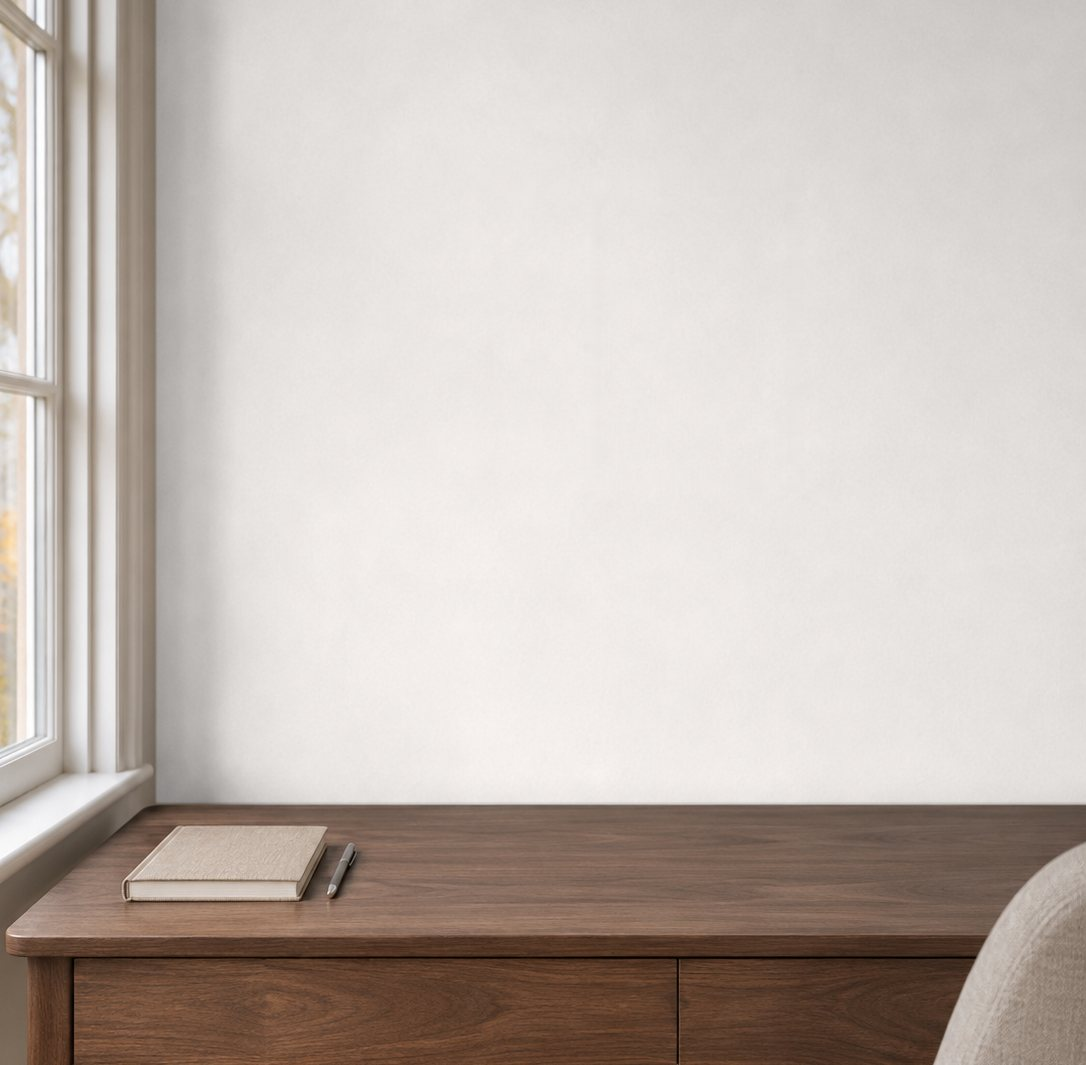
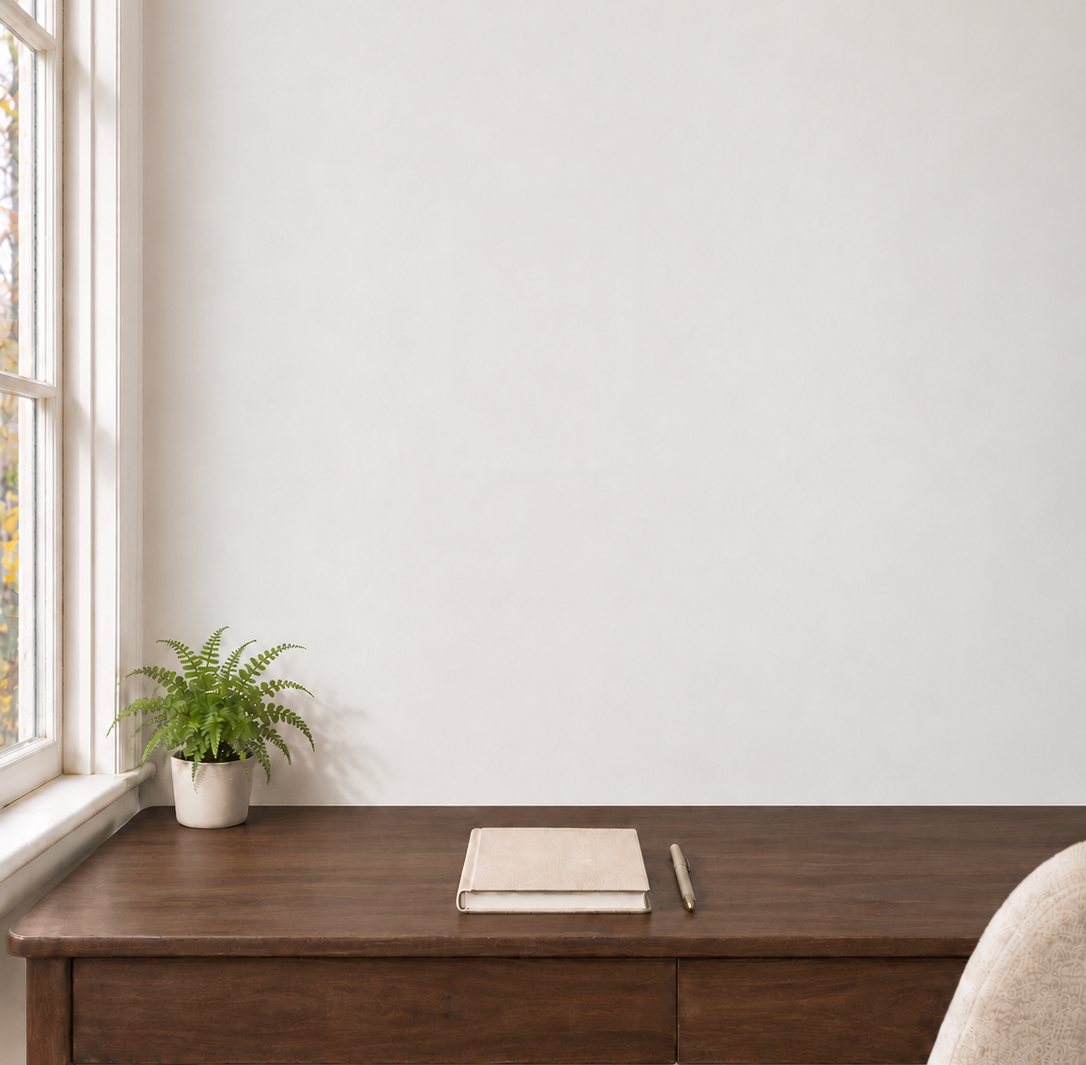
Wall view: desk picture with fern, recoloured and cropped
Claude-Session: https://claude.ai/code/session_01DXftZE4vQKfDt7Q36KHzd9

Changed region(s): [[0.0, 0.0, 0.8204, 1.0], [0.8508, 0.7746, 1.0, 1.0], [0.6989, 0.9915, 0.7293, 1.0]]

diff --git a/g-landscapes-trees-and-woodland.html b/g-landscapes-trees-and-woodland.html
@@ -33,7 +33,7 @@
 <img class="room" src="img/room.jpg" alt="" width="1037" height="1517" loading="lazy">
 <div class="hang bare" style="--tw:46;--th:54;--fw:0;--mx:0;--mt:0;--mb:0">
 <img src="img/t/054.jpg" alt="Bluebells in Spring shown at its real size on a wall" loading="lazy"></div>
-</div><p class="pane-note">Shown at its real size, 54 × 46 cm. Above a cabinet about 90 cm wide. The room is an illustration.</p></div><div class="views" role="group" aria-label="Choose a view of Bluebells in Spring"><button type="button" class="view-btn" data-view="painting" aria-pressed="true"><img src="img/t/054.jpg" alt="">The painting</button><button type="button" class="view-btn" data-view="wall" aria-pressed="false"><img src="img/room-thumb.jpg" alt="">On a wall</button></div></div><div class="ex-info"><h2>Bluebells in Spring</h2><dl><dt>Medium</dt><dd>Oil on canvas board</dd><dt>Size</dt><dd>54 × 46 cm</dd><dt>Year</dt><dd>2018</dd><dt>Price</dt><dd>Not for sale</dd><dt>Catalogue no.</dt><dd>54</dd></dl><p>A swathe of blue flowers across the woodland, where two birch trees stand out against the darker wood.</p><p class="ex-links"><button type="button" class="share-btn" data-url="https://joanmullinsart.co.uk/w-054.html" data-title="Bluebells in Spring, by Joan Mullins"><svg aria-hidden="true" viewBox="0 0 24 24" width="16" height="16" fill="none" stroke="currentColor" stroke-width="1.8" stroke-linecap="round" stroke-linejoin="round"><path d="M4 12v7a1 1 0 0 0 1 1h14a1 1 0 0 0 1-1v-7"/><path d="M12 3v12"/><path d="M7 8l5-5 5 5"/></svg><span>Share</span></button></p></div></article><article class="ex" data-status="available" id="w-060"><div class="ex-pic viewer"><div class="pane" data-pane="painting"><a href="img/w/060.jpg" data-zoom title="See it larger"><img src="img/w/060.jpg" alt="Oil painting of bright light shining through dark tree trunks onto snow." loading="lazy" width="1100" height="823"></a></div><div class="pane" data-pane="wall"><div class="wall" style="--rw:1086;--rh:1065;--s:14.1;--cx:694;--by:542">
+</div><p class="pane-note">Shown at its real size, 54 × 46 cm. Above a cabinet about 90 cm wide. The room is an illustration.</p></div><div class="views" role="group" aria-label="Choose a view of Bluebells in Spring"><button type="button" class="view-btn" data-view="painting" aria-pressed="true"><img src="img/t/054.jpg" alt="">The painting</button><button type="button" class="view-btn" data-view="wall" aria-pressed="false"><img src="img/room-thumb.jpg" alt="">On a wall</button></div></div><div class="ex-info"><h2>Bluebells in Spring</h2><dl><dt>Medium</dt><dd>Oil on canvas board</dd><dt>Size</dt><dd>54 × 46 cm</dd><dt>Year</dt><dd>2018</dd><dt>Price</dt><dd>Not for sale</dd><dt>Catalogue no.</dt><dd>54</dd></dl><p>A swathe of blue flowers across the woodland, where two birch trees stand out against the darker wood.</p><p class="ex-links"><button type="button" class="share-btn" data-url="https://joanmullinsart.co.uk/w-054.html" data-title="Bluebells in Spring, by Joan Mullins"><svg aria-hidden="true" viewBox="0 0 24 24" width="16" height="16" fill="none" stroke="currentColor" stroke-width="1.8" stroke-linecap="round" stroke-linejoin="round"><path d="M4 12v7a1 1 0 0 0 1 1h14a1 1 0 0 0 1-1v-7"/><path d="M12 3v12"/><path d="M7 8l5-5 5 5"/></svg><span>Share</span></button></p></div></article><article class="ex" data-status="available" id="w-060"><div class="ex-pic viewer"><div class="pane" data-pane="painting"><a href="img/w/060.jpg" data-zoom title="See it larger"><img src="img/w/060.jpg" alt="Oil painting of bright light shining through dark tree trunks onto snow." loading="lazy" width="1100" height="823"></a></div><div class="pane" data-pane="wall"><div class="wall" style="--rw:1086;--rh:1065;--s:13.0;--cx:542;--by:521">
 <img class="room" src="img/room-desk.jpg" alt="" width="1086" height="1065" loading="lazy">
 <div class="hang bare" style="--tw:20;--th:15;--fw:0;--mx:0;--mt:0;--mb:0">
 <img src="img/t/060.jpg" alt="Light in the Snow shown at its real size on a wall" loading="lazy"></div>
@@ -45,7 +45,7 @@
 <img class="room" src="img/room.jpg" alt="" width="1037" height="1517" loading="lazy">
 <div class="hang bare" style="--tw:35;--th:48;--fw:0;--mx:0;--mt:0;--mb:0">
 <img src="img/t/090.jpg" alt="The Yellow Bush shown at its real size on a wall" loading="lazy"></div>
-</div><p class="pane-note">Shown at its real size, 48 × 35 cm. Above a cabinet about 90 cm wide. The room is an illustration.</p></div><div class="views" role="group" aria-label="Choose a view of The Yellow Bush"><button type="button" class="view-btn" data-view="painting" aria-pressed="true"><img src="img/t/090.jpg" alt="">The painting</button><button type="button" class="view-btn" data-view="wall" aria-pressed="false"><img src="img/room-thumb.jpg" alt="">On a wall</button></div></div><div class="ex-info"><h2>The Yellow Bush</h2><dl><dt>Medium</dt><dd>Oil on canvas board</dd><dt>Size</dt><dd>48 × 35 cm</dd><dt>Year</dt><dd>2024</dd><dt>Inspired by</dt><dd>A wood in Cheshire</dd><dt>Price</dt><dd>Not for sale</dd><dt>Catalogue no.</dt><dd>90</dd></dl><p>This painting is based on trees seen on a walk in the woods in Cheshire, where one bush in particular stood out.</p><p class="ex-links"><button type="button" class="share-btn" data-url="https://joanmullinsart.co.uk/w-090.html" data-title="The Yellow Bush, by Joan Mullins"><svg aria-hidden="true" viewBox="0 0 24 24" width="16" height="16" fill="none" stroke="currentColor" stroke-width="1.8" stroke-linecap="round" stroke-linejoin="round"><path d="M4 12v7a1 1 0 0 0 1 1h14a1 1 0 0 0 1-1v-7"/><path d="M12 3v12"/><path d="M7 8l5-5 5 5"/></svg><span>Share</span></button></p></div></article><article class="ex" data-status="available" id="w-105"><div class="ex-pic viewer"><div class="pane" data-pane="painting"><a href="img/w/105.jpg" data-zoom title="See it larger"><img src="img/w/105.jpg" alt="Oil painting of a sunlit path between overgrown green banks and trees near West Kirby, on the Wirral." loading="lazy" width="726" height="1100"></a></div><div class="pane" data-pane="wall"><div class="wall" style="--rw:1086;--rh:1065;--s:14.1;--cx:694;--by:542">
+</div><p class="pane-note">Shown at its real size, 48 × 35 cm. Above a cabinet about 90 cm wide. The room is an illustration.</p></div><div class="views" role="group" aria-label="Choose a view of The Yellow Bush"><button type="button" class="view-btn" data-view="painting" aria-pressed="true"><img src="img/t/090.jpg" alt="">The painting</button><button type="button" class="view-btn" data-view="wall" aria-pressed="false"><img src="img/room-thumb.jpg" alt="">On a wall</button></div></div><div class="ex-info"><h2>The Yellow Bush</h2><dl><dt>Medium</dt><dd>Oil on canvas board</dd><dt>Size</dt><dd>48 × 35 cm</dd><dt>Year</dt><dd>2024</dd><dt>Inspired by</dt><dd>A wood in Cheshire</dd><dt>Price</dt><dd>Not for sale</dd><dt>Catalogue no.</dt><dd>90</dd></dl><p>This painting is based on trees seen on a walk in the woods in Cheshire, where one bush in particular stood out.</p><p class="ex-links"><button type="button" class="share-btn" data-url="https://joanmullinsart.co.uk/w-090.html" data-title="The Yellow Bush, by Joan Mullins"><svg aria-hidden="true" viewBox="0 0 24 24" width="16" height="16" fill="none" stroke="currentColor" stroke-width="1.8" stroke-linecap="round" stroke-linejoin="round"><path d="M4 12v7a1 1 0 0 0 1 1h14a1 1 0 0 0 1-1v-7"/><path d="M12 3v12"/><path d="M7 8l5-5 5 5"/></svg><span>Share</span></button></p></div></article><article class="ex" data-status="available" id="w-105"><div class="ex-pic viewer"><div class="pane" data-pane="painting"><a href="img/w/105.jpg" data-zoom title="See it larger"><img src="img/w/105.jpg" alt="Oil painting of a sunlit path between overgrown green banks and trees near West Kirby, on the Wirral." loading="lazy" width="726" height="1100"></a></div><div class="pane" data-pane="wall"><div class="wall" style="--rw:1086;--rh:1065;--s:13.0;--cx:542;--by:521">
 <img class="room" src="img/room-desk.jpg" alt="" width="1086" height="1065" loading="lazy">
 <div class="hang bare" style="--tw:20;--th:29;--fw:0;--mx:0;--mt:0;--mb:0">
 <img src="img/t/105.jpg" alt="A Path in the Wirral shown at its real size on a wall" loading="lazy"></div>
@@ -69,7 +69,7 @@
 <img class="room" src="img/room-small.jpg" alt="" width="904" height="1120" loading="lazy">
 <div class="hang bare" style="--tw:45;--th:33;--fw:0;--mx:0;--mt:0;--mb:0">
 <img src="img/t/142.jpg" alt="Landscape with Red Roofs shown at its real size on a wall" loading="lazy"></div>
-</div><p class="pane-note">Shown at its real size, 33 × 45 cm. Above a side table about 65 cm across. The room is an illustration.</p></div><div class="views" role="group" aria-label="Choose a view of Landscape with Red Roofs"><button type="button" class="view-btn" data-view="painting" aria-pressed="true"><img src="img/t/142.jpg" alt="">The painting</button><button type="button" class="view-btn" data-view="wall" aria-pressed="false"><img src="img/room-small-thumb.jpg" alt="">On a wall</button></div></div><div class="ex-info"><h2>Landscape with Red Roofs</h2><dl><dt>Medium</dt><dd>Oil on canvas board</dd><dt>Size</dt><dd>33 × 45 cm</dd><dt>Year</dt><dd>2026</dd><dt>Price</dt><dd>£300</dd><dt>Catalogue no.</dt><dd>142</dd></dl><p>A summer landscape, with a path passing between trees inviting the viewer to look out towards the houses in the distance.</p><p class="ex-links"><a href="enquire.html#w-142">Ask about this painting</a> · <button type="button" class="share-btn" data-url="https://joanmullinsart.co.uk/w-142.html" data-title="Landscape with Red Roofs, by Joan Mullins"><svg aria-hidden="true" viewBox="0 0 24 24" width="16" height="16" fill="none" stroke="currentColor" stroke-width="1.8" stroke-linecap="round" stroke-linejoin="round"><path d="M4 12v7a1 1 0 0 0 1 1h14a1 1 0 0 0 1-1v-7"/><path d="M12 3v12"/><path d="M7 8l5-5 5 5"/></svg><span>Share</span></button></p></div></article><article class="ex" data-status="available" id="w-148"><div class="ex-pic viewer"><div class="pane" data-pane="painting"><a href="img/w/148.jpg" data-zoom title="See it larger"><img src="img/w/148.jpg" alt="Oil painting of autumn woodland with tall trees in orange, yellow and green on a calm day." loading="lazy" width="1099" height="777"></a></div><div class="pane" data-pane="wall"><div class="wall" style="--rw:1086;--rh:1065;--s:14.1;--cx:694;--by:542">
+</div><p class="pane-note">Shown at its real size, 33 × 45 cm. Above a side table about 65 cm across. The room is an illustration.</p></div><div class="views" role="group" aria-label="Choose a view of Landscape with Red Roofs"><button type="button" class="view-btn" data-view="painting" aria-pressed="true"><img src="img/t/142.jpg" alt="">The painting</button><button type="button" class="view-btn" data-view="wall" aria-pressed="false"><img src="img/room-small-thumb.jpg" alt="">On a wall</button></div></div><div class="ex-info"><h2>Landscape with Red Roofs</h2><dl><dt>Medium</dt><dd>Oil on canvas board</dd><dt>Size</dt><dd>33 × 45 cm</dd><dt>Year</dt><dd>2026</dd><dt>Price</dt><dd>£300</dd><dt>Catalogue no.</dt><dd>142</dd></dl><p>A summer landscape, with a path passing between trees inviting the viewer to look out towards the houses in the distance.</p><p class="ex-links"><a href="enquire.html#w-142">Ask about this painting</a> · <button type="button" class="share-btn" data-url="https://joanmullinsart.co.uk/w-142.html" data-title="Landscape with Red Roofs, by Joan Mullins"><svg aria-hidden="true" viewBox="0 0 24 24" width="16" height="16" fill="none" stroke="currentColor" stroke-width="1.8" stroke-linecap="round" stroke-linejoin="round"><path d="M4 12v7a1 1 0 0 0 1 1h14a1 1 0 0 0 1-1v-7"/><path d="M12 3v12"/><path d="M7 8l5-5 5 5"/></svg><span>Share</span></button></p></div></article><article class="ex" data-status="available" id="w-148"><div class="ex-pic viewer"><div class="pane" data-pane="painting"><a href="img/w/148.jpg" data-zoom title="See it larger"><img src="img/w/148.jpg" alt="Oil painting of autumn woodland with tall trees in orange, yellow and green on a calm day." loading="lazy" width="1099" height="777"></a></div><div class="pane" data-pane="wall"><div class="wall" style="--rw:1086;--rh:1065;--s:13.0;--cx:542;--by:521">
 <img class="room" src="img/room-desk.jpg" alt="" width="1086" height="1065" loading="lazy">
 <div class="hang bare" style="--tw:34;--th:25;--fw:0;--mx:0;--mt:0;--mb:0">
 <img src="img/t/148.jpg" alt="Autumn Woods shown at its real size on a wall" loading="lazy"></div>

diff --git a/sold.html b/sold.html
@@ -49,7 +49,7 @@
 <img class="room" src="img/room-small.jpg" alt="" width="904" height="1120" loading="lazy">
 <div class="hang bare" style="--tw:35;--th:45;--fw:0;--mx:0;--mt:0;--mb:0">
 <img src="img/t/114.jpg" alt="Landscape with Birch Trees shown at its real size on a wall" loading="lazy"></div>
-</div><p class="pane-note">Shown at its real size, 45 × 35 cm. Above a side table about 65 cm across. The room is an illustration.</p></div><div class="views" role="group" aria-label="Choose a view of Landscape with Birch Trees"><button type="button" class="view-btn" data-view="painting" aria-pressed="true"><img src="img/t/114.jpg" alt="">The painting</button><button type="button" class="view-btn" data-view="wall" aria-pressed="false"><img src="img/room-small-thumb.jpg" alt="">On a wall</button></div></div><div class="ex-info"><h2>Landscape with Birch Trees</h2><dl><dt>Medium</dt><dd>Oil on canvas board</dd><dt>Size</dt><dd>45 × 35 cm</dd><dt>Year</dt><dd>2008</dd><dt>Inspired by</dt><dd>Hampshire</dd><dt>Price</dt><dd>Sold</dd><dt>Catalogue no.</dt><dd>114</dd></dl><p>Landscape with birch trees in Hampshire, England. Again, the interest here is the white of the tree bark against the green background of trees and fields.</p><p class="ex-links"><button type="button" class="share-btn" data-url="https://joanmullinsart.co.uk/w-114.html" data-title="Landscape with Birch Trees, by Joan Mullins"><svg aria-hidden="true" viewBox="0 0 24 24" width="16" height="16" fill="none" stroke="currentColor" stroke-width="1.8" stroke-linecap="round" stroke-linejoin="round"><path d="M4 12v7a1 1 0 0 0 1 1h14a1 1 0 0 0 1-1v-7"/><path d="M12 3v12"/><path d="M7 8l5-5 5 5"/></svg><span>Share</span></button></p></div></article><article class="ex" data-status="sold" id="w-124"><div class="ex-pic viewer"><div class="pane" data-pane="painting"><a href="img/w/124.jpg" data-zoom title="See it larger"><img src="img/w/124.jpg" alt="Two Dogs in the Pea Fields" loading="lazy" width="970" height="1100"></a></div></div><div class="ex-info"><h2>Two Dogs in the Pea Fields</h2><dl><dt>Medium</dt><dd>Oil on canvas board</dd><dt>Price</dt><dd>Sold</dd><dt>Catalogue no.</dt><dd>124</dd></dl><p class="ex-links"><button type="button" class="share-btn" data-url="https://joanmullinsart.co.uk/w-124.html" data-title="Two Dogs in the Pea Fields, by Joan Mullins"><svg aria-hidden="true" viewBox="0 0 24 24" width="16" height="16" fill="none" stroke="currentColor" stroke-width="1.8" stroke-linecap="round" stroke-linejoin="round"><path d="M4 12v7a1 1 0 0 0 1 1h14a1 1 0 0 0 1-1v-7"/><path d="M12 3v12"/><path d="M7 8l5-5 5 5"/></svg><span>Share</span></button></p></div></article><article class="ex" data-status="sold" id="w-139"><div class="ex-pic viewer"><div class="pane" data-pane="painting"><a href="img/w/139.jpg" data-zoom title="See it larger"><img src="img/w/139.jpg" alt="Birch Trees in Spring with Dandelions" loading="lazy" width="844" height="591"></a></div><div class="pane" data-pane="wall"><div class="wall" style="--rw:1086;--rh:1065;--s:14.1;--cx:694;--by:542">
+</div><p class="pane-note">Shown at its real size, 45 × 35 cm. Above a side table about 65 cm across. The room is an illustration.</p></div><div class="views" role="group" aria-label="Choose a view of Landscape with Birch Trees"><button type="button" class="view-btn" data-view="painting" aria-pressed="true"><img src="img/t/114.jpg" alt="">The painting</button><button type="button" class="view-btn" data-view="wall" aria-pressed="false"><img src="img/room-small-thumb.jpg" alt="">On a wall</button></div></div><div class="ex-info"><h2>Landscape with Birch Trees</h2><dl><dt>Medium</dt><dd>Oil on canvas board</dd><dt>Size</dt><dd>45 × 35 cm</dd><dt>Year</dt><dd>2008</dd><dt>Inspired by</dt><dd>Hampshire</dd><dt>Price</dt><dd>Sold</dd><dt>Catalogue no.</dt><dd>114</dd></dl><p>Landscape with birch trees in Hampshire, England. Again, the interest here is the white of the tree bark against the green background of trees and fields.</p><p class="ex-links"><button type="button" class="share-btn" data-url="https://joanmullinsart.co.uk/w-114.html" data-title="Landscape with Birch Trees, by Joan Mullins"><svg aria-hidden="true" viewBox="0 0 24 24" width="16" height="16" fill="none" stroke="currentColor" stroke-width="1.8" stroke-linecap="round" stroke-linejoin="round"><path d="M4 12v7a1 1 0 0 0 1 1h14a1 1 0 0 0 1-1v-7"/><path d="M12 3v12"/><path d="M7 8l5-5 5 5"/></svg><span>Share</span></button></p></div></article><article class="ex" data-status="sold" id="w-124"><div class="ex-pic viewer"><div class="pane" data-pane="painting"><a href="img/w/124.jpg" data-zoom title="See it larger"><img src="img/w/124.jpg" alt="Two Dogs in the Pea Fields" loading="lazy" width="970" height="1100"></a></div></div><div class="ex-info"><h2>Two Dogs in the Pea Fields</h2><dl><dt>Medium</dt><dd>Oil on canvas board</dd><dt>Price</dt><dd>Sold</dd><dt>Catalogue no.</dt><dd>124</dd></dl><p class="ex-links"><button type="button" class="share-btn" data-url="https://joanmullinsart.co.uk/w-124.html" data-title="Two Dogs in the Pea Fields, by Joan Mullins"><svg aria-hidden="true" viewBox="0 0 24 24" width="16" height="16" fill="none" stroke="currentColor" stroke-width="1.8" stroke-linecap="round" stroke-linejoin="round"><path d="M4 12v7a1 1 0 0 0 1 1h14a1 1 0 0 0 1-1v-7"/><path d="M12 3v12"/><path d="M7 8l5-5 5 5"/></svg><span>Share</span></button></p></div></article><article class="ex" data-status="sold" id="w-139"><div class="ex-pic viewer"><div class="pane" data-pane="painting"><a href="img/w/139.jpg" data-zoom title="See it larger"><img src="img/w/139.jpg" alt="Birch Trees in Spring with Dandelions" loading="lazy" width="844" height="591"></a></div><div class="pane" data-pane="wall"><div class="wall" style="--rw:1086;--rh:1065;--s:13.0;--cx:542;--by:521">
 <img class="room" src="img/room-desk.jpg" alt="" width="1086" height="1065" loading="lazy">
 <div class="hang bare" style="--tw:30;--th:20;--fw:0;--mx:0;--mt:0;--mb:0">
 <img src="img/t/139.jpg" alt="Birch Trees in Spring with Dandelions shown at its real size on a wall" loading="lazy"></div>

diff --git a/g-landscapes-countryside.html b/g-landscapes-countryside.html
@@ -33,7 +33,7 @@
 <img class="room" src="img/room.jpg" alt="" width="1037" height="1517" loading="lazy">
 <div class="hang mounted" style="--tw:50.4;--th:42.4;--fw:2.2;--mx:7;--mt:7;--mb:8">
 <img src="img/t/008.jpg" alt="Balancing Rocks Zimbabwe shown at its real size on a wall" loading="lazy"></div>
-</div><p class="pane-note">Shown in a typical mount and frame, which are not included. The painting itself is 23 × 32 cm. Above a cabinet about 90 cm wide. The room is an illustration.</p></div><div class="views" role="group" aria-label="Choose a view of Balancing Rocks Zimbabwe"><button type="button" class="view-btn" data-view="painting" aria-pressed="true"><img src="img/t/008.jpg" alt="">The painting</button><button type="button" class="view-btn" data-view="wall" aria-pressed="false"><img src="img/room-thumb.jpg" alt="">On a wall</button></div></div><div class="ex-info"><h2>Balancing Rocks Zimbabwe</h2><dl><dt>Medium</dt><dd>Ink and watercolour on paper</dd><dt>Size</dt><dd>23 × 32 cm</dd><dt>Year</dt><dd>1985</dd><dt>Inspired by</dt><dd>The south of Zimbabwe</dd><dt>Price</dt><dd>£175</dd><dt>Catalogue no.</dt><dd>8</dd></dl><p>These very famous balancing rocks in the south of Zimbabwe are typical of the granite rock formations in the south of the country, where I grew up. It was done in a nostalgic mood many years after leaving the country.</p><p class="ex-links"><a href="enquire.html#w-008">Ask about this painting</a> · <button type="button" class="share-btn" data-url="https://joanmullinsart.co.uk/w-008.html" data-title="Balancing Rocks Zimbabwe, by Joan Mullins"><svg aria-hidden="true" viewBox="0 0 24 24" width="16" height="16" fill="none" stroke="currentColor" stroke-width="1.8" stroke-linecap="round" stroke-linejoin="round"><path d="M4 12v7a1 1 0 0 0 1 1h14a1 1 0 0 0 1-1v-7"/><path d="M12 3v12"/><path d="M7 8l5-5 5 5"/></svg><span>Share</span></button></p></div></article><article class="ex" data-status="available" id="w-031"><div class="ex-pic viewer"><div class="pane" data-pane="painting"><a href="img/w/031.jpg" data-zoom title="See it larger"><img src="img/w/031.jpg" alt="Oil painting of a small stone shed beside a snow-covered track in Co Mayo, Ireland, with fir trees behind." loading="lazy" width="1100" height="886"></a></div><div class="pane" data-pane="wall"><div class="wall" style="--rw:1086;--rh:1065;--s:14.1;--cx:694;--by:542">
+</div><p class="pane-note">Shown in a typical mount and frame, which are not included. The painting itself is 23 × 32 cm. Above a cabinet about 90 cm wide. The room is an illustration.</p></div><div class="views" role="group" aria-label="Choose a view of Balancing Rocks Zimbabwe"><button type="button" class="view-btn" data-view="painting" aria-pressed="true"><img src="img/t/008.jpg" alt="">The painting</button><button type="button" class="view-btn" data-view="wall" aria-pressed="false"><img src="img/room-thumb.jpg" alt="">On a wall</button></div></div><div class="ex-info"><h2>Balancing Rocks Zimbabwe</h2><dl><dt>Medium</dt><dd>Ink and watercolour on paper</dd><dt>Size</dt><dd>23 × 32 cm</dd><dt>Year</dt><dd>1985</dd><dt>Inspired by</dt><dd>The south of Zimbabwe</dd><dt>Price</dt><dd>£175</dd><dt>Catalogue no.</dt><dd>8</dd></dl><p>These very famous balancing rocks in the south of Zimbabwe are typical of the granite rock formations in the south of the country, where I grew up. It was done in a nostalgic mood many years after leaving the country.</p><p class="ex-links"><a href="enquire.html#w-008">Ask about this painting</a> · <button type="button" class="share-btn" data-url="https://joanmullinsart.co.uk/w-008.html" data-title="Balancing Rocks Zimbabwe, by Joan Mullins"><svg aria-hidden="true" viewBox="0 0 24 24" width="16" height="16" fill="none" stroke="currentColor" stroke-width="1.8" stroke-linecap="round" stroke-linejoin="round"><path d="M4 12v7a1 1 0 0 0 1 1h14a1 1 0 0 0 1-1v-7"/><path d="M12 3v12"/><path d="M7 8l5-5 5 5"/></svg><span>Share</span></button></p></div></article><article class="ex" data-status="available" id="w-031"><div class="ex-pic viewer"><div class="pane" data-pane="painting"><a href="img/w/031.jpg" data-zoom title="See it larger"><img src="img/w/031.jpg" alt="Oil painting of a small stone shed beside a snow-covered track in Co Mayo, Ireland, with fir trees behind." loading="lazy" width="1100" height="886"></a></div><div class="pane" data-pane="wall"><div class="wall" style="--rw:1086;--rh:1065;--s:13.0;--cx:542;--by:521">
 <img class="room" src="img/room-desk.jpg" alt="" width="1086" height="1065" loading="lazy">
 <div class="hang bare" style="--tw:35;--th:32;--fw:0;--mx:0;--mt:0;--mb:0">
 <img src="img/t/031.jpg" alt="Abandoned Shed shown at its real size on a wall" loading="lazy"></div>

diff --git a/new.html b/new.html
@@ -41,7 +41,7 @@
 <img class="room" src="img/room-small.jpg" alt="" width="904" height="1120" loading="lazy">
 <div class="hang bare" style="--tw:45;--th:28;--fw:0;--mx:0;--mt:0;--mb:0">
 <img src="img/t/143.jpg" alt="Thurstaston Beach at Sunset shown at its real size on a wall" loading="lazy"></div>
-</div><p class="pane-note">Shown at its real size, 28 × 45 cm. Above a side table about 65 cm across. The room is an illustration.</p></div><div class="views" role="group" aria-label="Choose a view of Thurstaston Beach at Sunset"><button type="button" class="view-btn" data-view="painting" aria-pressed="true"><img src="img/t/143.jpg" alt="">The painting</button><button type="button" class="view-btn" data-view="wall" aria-pressed="false"><img src="img/room-small-thumb.jpg" alt="">On a wall</button></div></div><div class="ex-info"><h2>Thurstaston Beach at Sunset</h2><dl><dt>Medium</dt><dd>Oil on canvas board</dd><dt>Size</dt><dd>28 × 45 cm</dd><dt>Year</dt><dd>2026</dd><dt>Inspired by</dt><dd>Thurstaston beach, Wirral</dd><dt>Price</dt><dd>£200</dd><dt>Catalogue no.</dt><dd>143</dd></dl><p>Thurstaston beach at sunset, with a small stream meandering across the pebbles and sand towards the sea.</p><p class="ex-links"><a href="enquire.html#w-143">Ask about this painting</a> · <button type="button" class="share-btn" data-url="https://joanmullinsart.co.uk/w-143.html" data-title="Thurstaston Beach at Sunset, by Joan Mullins"><svg aria-hidden="true" viewBox="0 0 24 24" width="16" height="16" fill="none" stroke="currentColor" stroke-width="1.8" stroke-linecap="round" stroke-linejoin="round"><path d="M4 12v7a1 1 0 0 0 1 1h14a1 1 0 0 0 1-1v-7"/><path d="M12 3v12"/><path d="M7 8l5-5 5 5"/></svg><span>Share</span></button></p></div></article><article class="ex" data-status="available" id="w-148"><div class="ex-pic viewer"><div class="pane" data-pane="painting"><a href="img/w/148.jpg" data-zoom title="See it larger"><img src="img/w/148.jpg" alt="Oil painting of autumn woodland with tall trees in orange, yellow and green on a calm day." loading="lazy" width="1099" height="777"></a></div><div class="pane" data-pane="wall"><div class="wall" style="--rw:1086;--rh:1065;--s:14.1;--cx:694;--by:542">
+</div><p class="pane-note">Shown at its real size, 28 × 45 cm. Above a side table about 65 cm across. The room is an illustration.</p></div><div class="views" role="group" aria-label="Choose a view of Thurstaston Beach at Sunset"><button type="button" class="view-btn" data-view="painting" aria-pressed="true"><img src="img/t/143.jpg" alt="">The painting</button><button type="button" class="view-btn" data-view="wall" aria-pressed="false"><img src="img/room-small-thumb.jpg" alt="">On a wall</button></div></div><div class="ex-info"><h2>Thurstaston Beach at Sunset</h2><dl><dt>Medium</dt><dd>Oil on canvas board</dd><dt>Size</dt><dd>28 × 45 cm</dd><dt>Year</dt><dd>2026</dd><dt>Inspired by</dt><dd>Thurstaston beach, Wirral</dd><dt>Price</dt><dd>£200</dd><dt>Catalogue no.</dt><dd>143</dd></dl><p>Thurstaston beach at sunset, with a small stream meandering across the pebbles and sand towards the sea.</p><p class="ex-links"><a href="enquire.html#w-143">Ask about this painting</a> · <button type="button" class="share-btn" data-url="https://joanmullinsart.co.uk/w-143.html" data-title="Thurstaston Beach at Sunset, by Joan Mullins"><svg aria-hidden="true" viewBox="0 0 24 24" width="16" height="16" fill="none" stroke="currentColor" stroke-width="1.8" stroke-linecap="round" stroke-linejoin="round"><path d="M4 12v7a1 1 0 0 0 1 1h14a1 1 0 0 0 1-1v-7"/><path d="M12 3v12"/><path d="M7 8l5-5 5 5"/></svg><span>Share</span></button></p></div></article><article class="ex" data-status="available" id="w-148"><div class="ex-pic viewer"><div class="pane" data-pane="painting"><a href="img/w/148.jpg" data-zoom title="See it larger"><img src="img/w/148.jpg" alt="Oil painting of autumn woodland with tall trees in orange, yellow and green on a calm day." loading="lazy" width="1099" height="777"></a></div><div class="pane" data-pane="wall"><div class="wall" style="--rw:1086;--rh:1065;--s:13.0;--cx:542;--by:521">
 <img class="room" src="img/room-desk.jpg" alt="" width="1086" height="1065" loading="lazy">
 <div class="hang bare" style="--tw:34;--th:25;--fw:0;--mx:0;--mt:0;--mb:0">
 <img src="img/t/148.jpg" alt="Autumn Woods shown at its real size on a wall" loading="lazy"></div>

diff --git a/g-sea-imaginings.html b/g-sea-imaginings.html
@@ -30,7 +30,7 @@
 <img class="room" src="img/room.jpg" alt="" width="1037" height="1517" loading="lazy">
 <div class="hang bare" style="--tw:50;--th:40;--fw:0;--mx:0;--mt:0;--mb:0">
 <img src="img/t/002.jpg" alt="Shell Fantasy No.2 shown at its real size on a wall" loading="lazy"></div>
-</div><p class="pane-note">Shown at its real size, 40 × 50 cm. Above a cabinet about 90 cm wide. The room is an illustration.</p></div><div class="views" role="group" aria-label="Choose a view of Shell Fantasy No.2"><button type="button" class="view-btn" data-view="painting" aria-pressed="true"><img src="img/t/002.jpg" alt="">The painting</button><button type="button" class="view-btn" data-view="wall" aria-pressed="false"><img src="img/room-thumb.jpg" alt="">On a wall</button></div></div><div class="ex-info"><h2>Shell Fantasy No.2</h2><dl><dt>Medium</dt><dd>Oil on canvas board</dd><dt>Size</dt><dd>40 × 50 cm</dd><dt>Year</dt><dd>2016</dd><dt>Price</dt><dd>£450</dd><dt>Catalogue no.</dt><dd>2</dd></dl><p>This is one of my earlier oil paintings, following a more creative approach while still using the sea and its creatures for inspiration.</p><p class="ex-links"><a href="enquire.html#w-002">Ask about this painting</a> · <button type="button" class="share-btn" data-url="https://joanmullinsart.co.uk/w-002.html" data-title="Shell Fantasy No.2, by Joan Mullins"><svg aria-hidden="true" viewBox="0 0 24 24" width="16" height="16" fill="none" stroke="currentColor" stroke-width="1.8" stroke-linecap="round" stroke-linejoin="round"><path d="M4 12v7a1 1 0 0 0 1 1h14a1 1 0 0 0 1-1v-7"/><path d="M12 3v12"/><path d="M7 8l5-5 5 5"/></svg><span>Share</span></button></p></div></article><article class="ex" data-status="available" id="w-033"><div class="ex-pic viewer"><div class="pane" data-pane="painting"><a href="img/w/033.jpg" data-zoom title="See it larger"><img src="img/w/033.jpg" alt="Oil painting of shells in pinks, creams and browns, arranged as a design of fanned and spiralling shapes." loading="lazy" width="918" height="1100"></a></div><div class="pane" data-pane="wall"><div class="wall" style="--rw:1086;--rh:1065;--s:14.1;--cx:694;--by:542">
+</div><p class="pane-note">Shown at its real size, 40 × 50 cm. Above a cabinet about 90 cm wide. The room is an illustration.</p></div><div class="views" role="group" aria-label="Choose a view of Shell Fantasy No.2"><button type="button" class="view-btn" data-view="painting" aria-pressed="true"><img src="img/t/002.jpg" alt="">The painting</button><button type="button" class="view-btn" data-view="wall" aria-pressed="false"><img src="img/room-thumb.jpg" alt="">On a wall</button></div></div><div class="ex-info"><h2>Shell Fantasy No.2</h2><dl><dt>Medium</dt><dd>Oil on canvas board</dd><dt>Size</dt><dd>40 × 50 cm</dd><dt>Year</dt><dd>2016</dd><dt>Price</dt><dd>£450</dd><dt>Catalogue no.</dt><dd>2</dd></dl><p>This is one of my earlier oil paintings, following a more creative approach while still using the sea and its creatures for inspiration.</p><p class="ex-links"><a href="enquire.html#w-002">Ask about this painting</a> · <button type="button" class="share-btn" data-url="https://joanmullinsart.co.uk/w-002.html" data-title="Shell Fantasy No.2, by Joan Mullins"><svg aria-hidden="true" viewBox="0 0 24 24" width="16" height="16" fill="none" stroke="currentColor" stroke-width="1.8" stroke-linecap="round" stroke-linejoin="round"><path d="M4 12v7a1 1 0 0 0 1 1h14a1 1 0 0 0 1-1v-7"/><path d="M12 3v12"/><path d="M7 8l5-5 5 5"/></svg><span>Share</span></button></p></div></article><article class="ex" data-status="available" id="w-033"><div class="ex-pic viewer"><div class="pane" data-pane="painting"><a href="img/w/033.jpg" data-zoom title="See it larger"><img src="img/w/033.jpg" alt="Oil painting of shells in pinks, creams and browns, arranged as a design of fanned and spiralling shapes." loading="lazy" width="918" height="1100"></a></div><div class="pane" data-pane="wall"><div class="wall" style="--rw:1086;--rh:1065;--s:13.0;--cx:542;--by:521">
 <img class="room" src="img/room-desk.jpg" alt="" width="1086" height="1065" loading="lazy">
 <div class="hang bare" style="--tw:25;--th:30;--fw:0;--mx:0;--mt:0;--mb:0">
 <img src="img/t/033.jpg" alt="Shell Design in Brown and Pink shown at its real size on a wall" loading="lazy"></div>

diff --git a/g-figurative-work.html b/g-figurative-work.html
@@ -50,7 +50,7 @@
 <img class="room" src="img/room.jpg" alt="" width="1037" height="1517" loading="lazy">
 <div class="hang mounted" style="--tw:44.4;--th:53.4;--fw:2.2;--mx:7;--mt:7;--mb:8">
 <img src="img/t/128.jpg" alt="1-5 Series of Ink and brush Heads shown at its real size on a wall" loading="lazy"></div>
-</div><p class="pane-note">Shown in a typical mount and frame, which are not included. The painting itself is 34 × 26 cm. Above a cabinet about 90 cm wide. The room is an illustration.</p></div><div class="views" role="group" aria-label="Choose a view of 1-5 Series of Ink and brush Heads"><button type="button" class="view-btn" data-view="painting" aria-pressed="true"><img src="img/t/128.jpg" alt="">The painting</button><button type="button" class="view-btn" data-view="wall" aria-pressed="false"><img src="img/room-thumb.jpg" alt="">On a wall</button></div></div><div class="ex-info"><h2>1-5 Series of Ink and brush Heads</h2><dl><dt>Medium</dt><dd>Ink and wash on paper</dd><dt>Size</dt><dd>34 × 26 cm</dd><dt>Year</dt><dd>2025</dd><dt>Price</dt><dd>£50</dd><dt>Catalogue no.</dt><dd>128</dd></dl><p class="ex-links"><a href="enquire.html#w-128">Ask about this painting</a> · <button type="button" class="share-btn" data-url="https://joanmullinsart.co.uk/w-128.html" data-title="1-5 Series of Ink and brush Heads, by Joan Mullins"><svg aria-hidden="true" viewBox="0 0 24 24" width="16" height="16" fill="none" stroke="currentColor" stroke-width="1.8" stroke-linecap="round" stroke-linejoin="round"><path d="M4 12v7a1 1 0 0 0 1 1h14a1 1 0 0 0 1-1v-7"/><path d="M12 3v12"/><path d="M7 8l5-5 5 5"/></svg><span>Share</span></button></p></div></article><article class="ex" data-status="nfs" id="w-144"><div class="ex-pic viewer"><div class="pane" data-pane="painting"><a href="img/w/144.jpg" data-zoom title="See it larger"><img src="img/w/144.jpg" alt="Oil portrait of an older person with silver hair, in a blue jumper and white collar, looking down." loading="lazy" width="1400" height="1446"></a></div><div class="pane" data-pane="wall"><div class="wall" style="--rw:1086;--rh:1065;--s:14.1;--cx:694;--by:542">
+</div><p class="pane-note">Shown in a typical mount and frame, which are not included. The painting itself is 34 × 26 cm. Above a cabinet about 90 cm wide. The room is an illustration.</p></div><div class="views" role="group" aria-label="Choose a view of 1-5 Series of Ink and brush Heads"><button type="button" class="view-btn" data-view="painting" aria-pressed="true"><img src="img/t/128.jpg" alt="">The painting</button><button type="button" class="view-btn" data-view="wall" aria-pressed="false"><img src="img/room-thumb.jpg" alt="">On a wall</button></div></div><div class="ex-info"><h2>1-5 Series of Ink and brush Heads</h2><dl><dt>Medium</dt><dd>Ink and wash on paper</dd><dt>Size</dt><dd>34 × 26 cm</dd><dt>Year</dt><dd>2025</dd><dt>Price</dt><dd>£50</dd><dt>Catalogue no.</dt><dd>128</dd></dl><p class="ex-links"><a href="enquire.html#w-128">Ask about this painting</a> · <button type="button" class="share-btn" data-url="https://joanmullinsart.co.uk/w-128.html" data-title="1-5 Series of Ink and brush Heads, by Joan Mullins"><svg aria-hidden="true" viewBox="0 0 24 24" width="16" height="16" fill="none" stroke="currentColor" stroke-width="1.8" stroke-linecap="round" stroke-linejoin="round"><path d="M4 12v7a1 1 0 0 0 1 1h14a1 1 0 0 0 1-1v-7"/><path d="M12 3v12"/><path d="M7 8l5-5 5 5"/></svg><span>Share</span></button></p></div></article><article class="ex" data-status="nfs" id="w-144"><div class="ex-pic viewer"><div class="pane" data-pane="painting"><a href="img/w/144.jpg" data-zoom title="See it larger"><img src="img/w/144.jpg" alt="Oil portrait of an older person with silver hair, in a blue jumper and white collar, looking down." loading="lazy" width="1400" height="1446"></a></div><div class="pane" data-pane="wall"><div class="wall" style="--rw:1086;--rh:1065;--s:13.0;--cx:542;--by:521">
 <img class="room" src="img/room-desk.jpg" alt="" width="1086" height="1065" loading="lazy">
 <div class="hang bare" style="--tw:29;--th:30;--fw:0;--mx:0;--mt:0;--mb:0">
 <img src="img/t/144.jpg" alt="Portrait of Dot Cato shown at its real size on a wall" loading="lazy"></div>

diff --git a/tools/build.py b/tools/build.py
@@ -160,10 +160,10 @@ ROOMS = {
                     where='Above a cabinet about 90 cm wide.'),
     # A side table about 65 cm across with a lamp, books and a mug, beside a chair; Steph's picture (recoloured by her, 10 Nov),
     # cropped from 1024 x 1536 to x 120-1024, y 300-1420. The picture hangs between the lamp and the chair, 25 cm above the table top.
-    # A walnut writing desk by a window, for the tiniest paintings, hung low enough to look at sitting down.
-    # Cropped from 1086 x 1448 to y 150-1215, with the A5 outline ChatGPT drew painted out and the wall made soft white.
-    # The outline (14.8 x 21 cm) gives 14.1 px = 1 cm. The picture hangs over the desk, 20 cm above its top.
-    'desk': dict(src='img/room-desk.jpg', thumb='img/room-desk-thumb.jpg', rw=1086, rh=1065, s=14.1, cx=694, by=542,
+    # A walnut writing desk by a window with a small fern, for the tiniest paintings, hung low enough to look at sitting down.
+    # Cropped from 1086 x 1448 to y 150-1215, with the A5 outline ChatGPT drew painted out, the wall matched and the wood calmed.
+    # The outline (14.8 x 21 cm) gives about 13 px = 1 cm. The picture hangs where the outline was, 20 cm above the desk top.
+    'desk': dict(src='img/room-desk.jpg', thumb='img/room-desk-thumb.jpg', rw=1086, rh=1065, s=13.0, cx=542, by=521,
                  where='Above a writing desk, hung to be seen sitting down.'),
     'table': dict(src='img/room-small.jpg', thumb='img/room-small-thumb.jpg', rw=904, rh=1120, s=7.6, cx=460, by=618,
                   where='Above a side table about 65 cm across.'),
